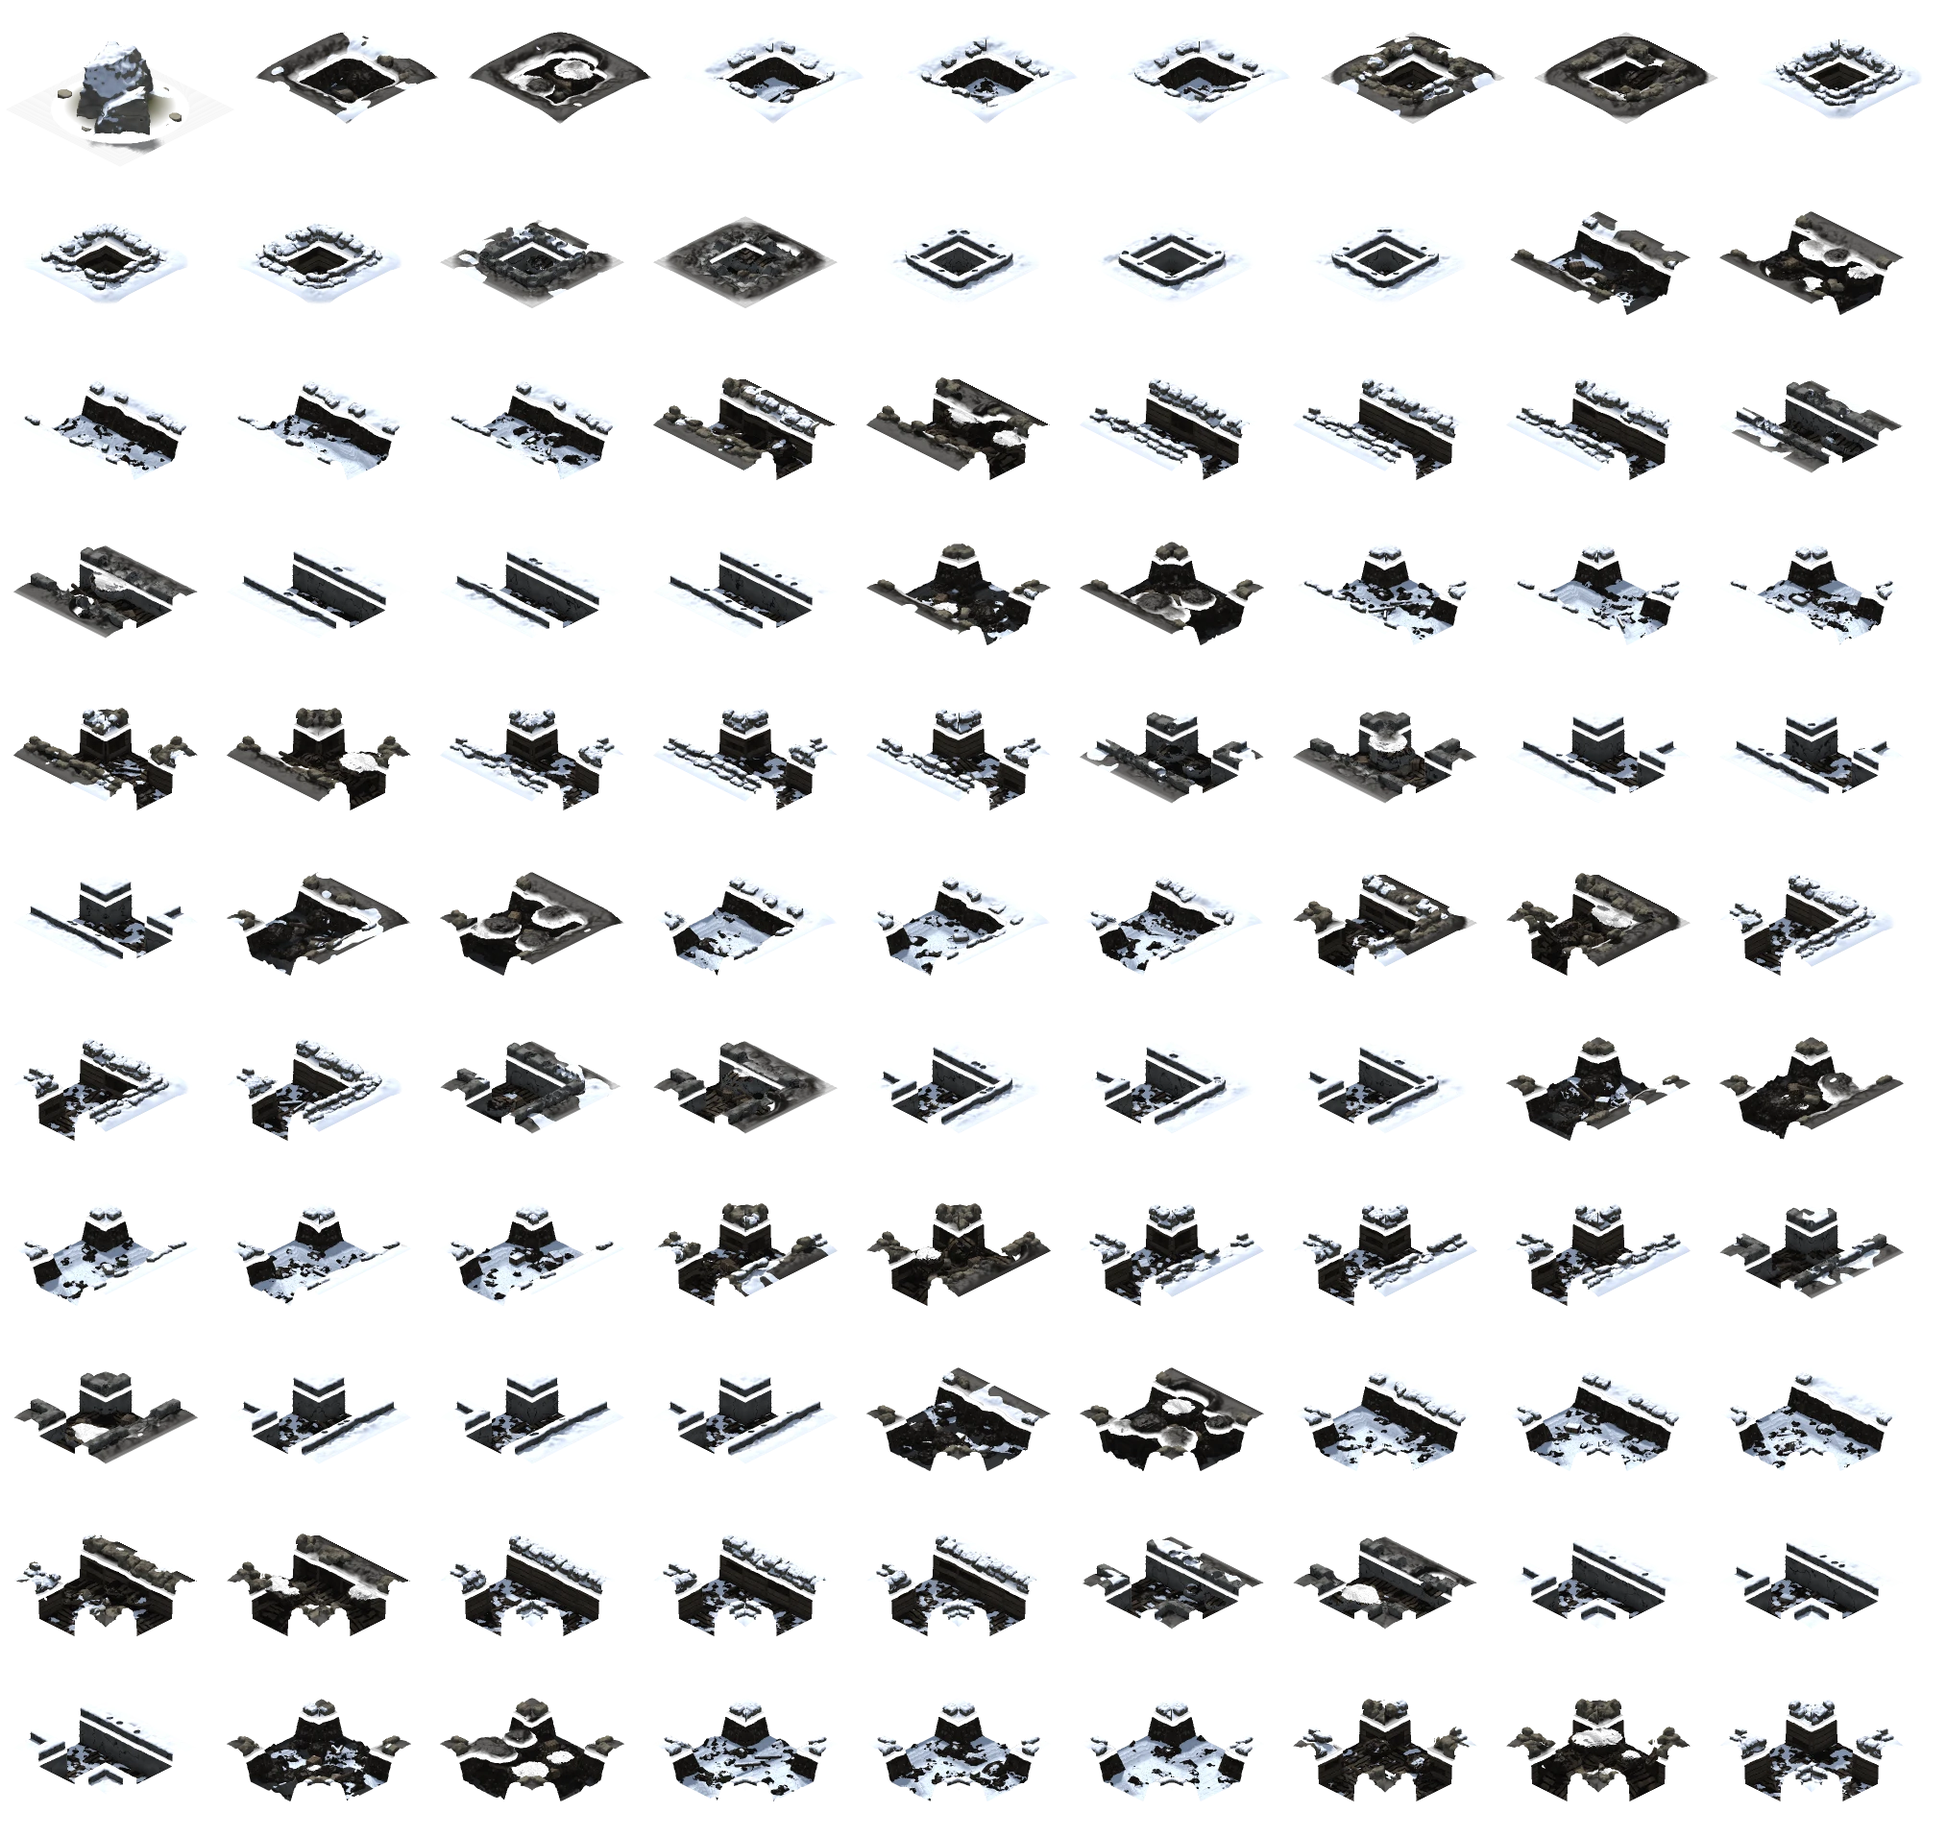
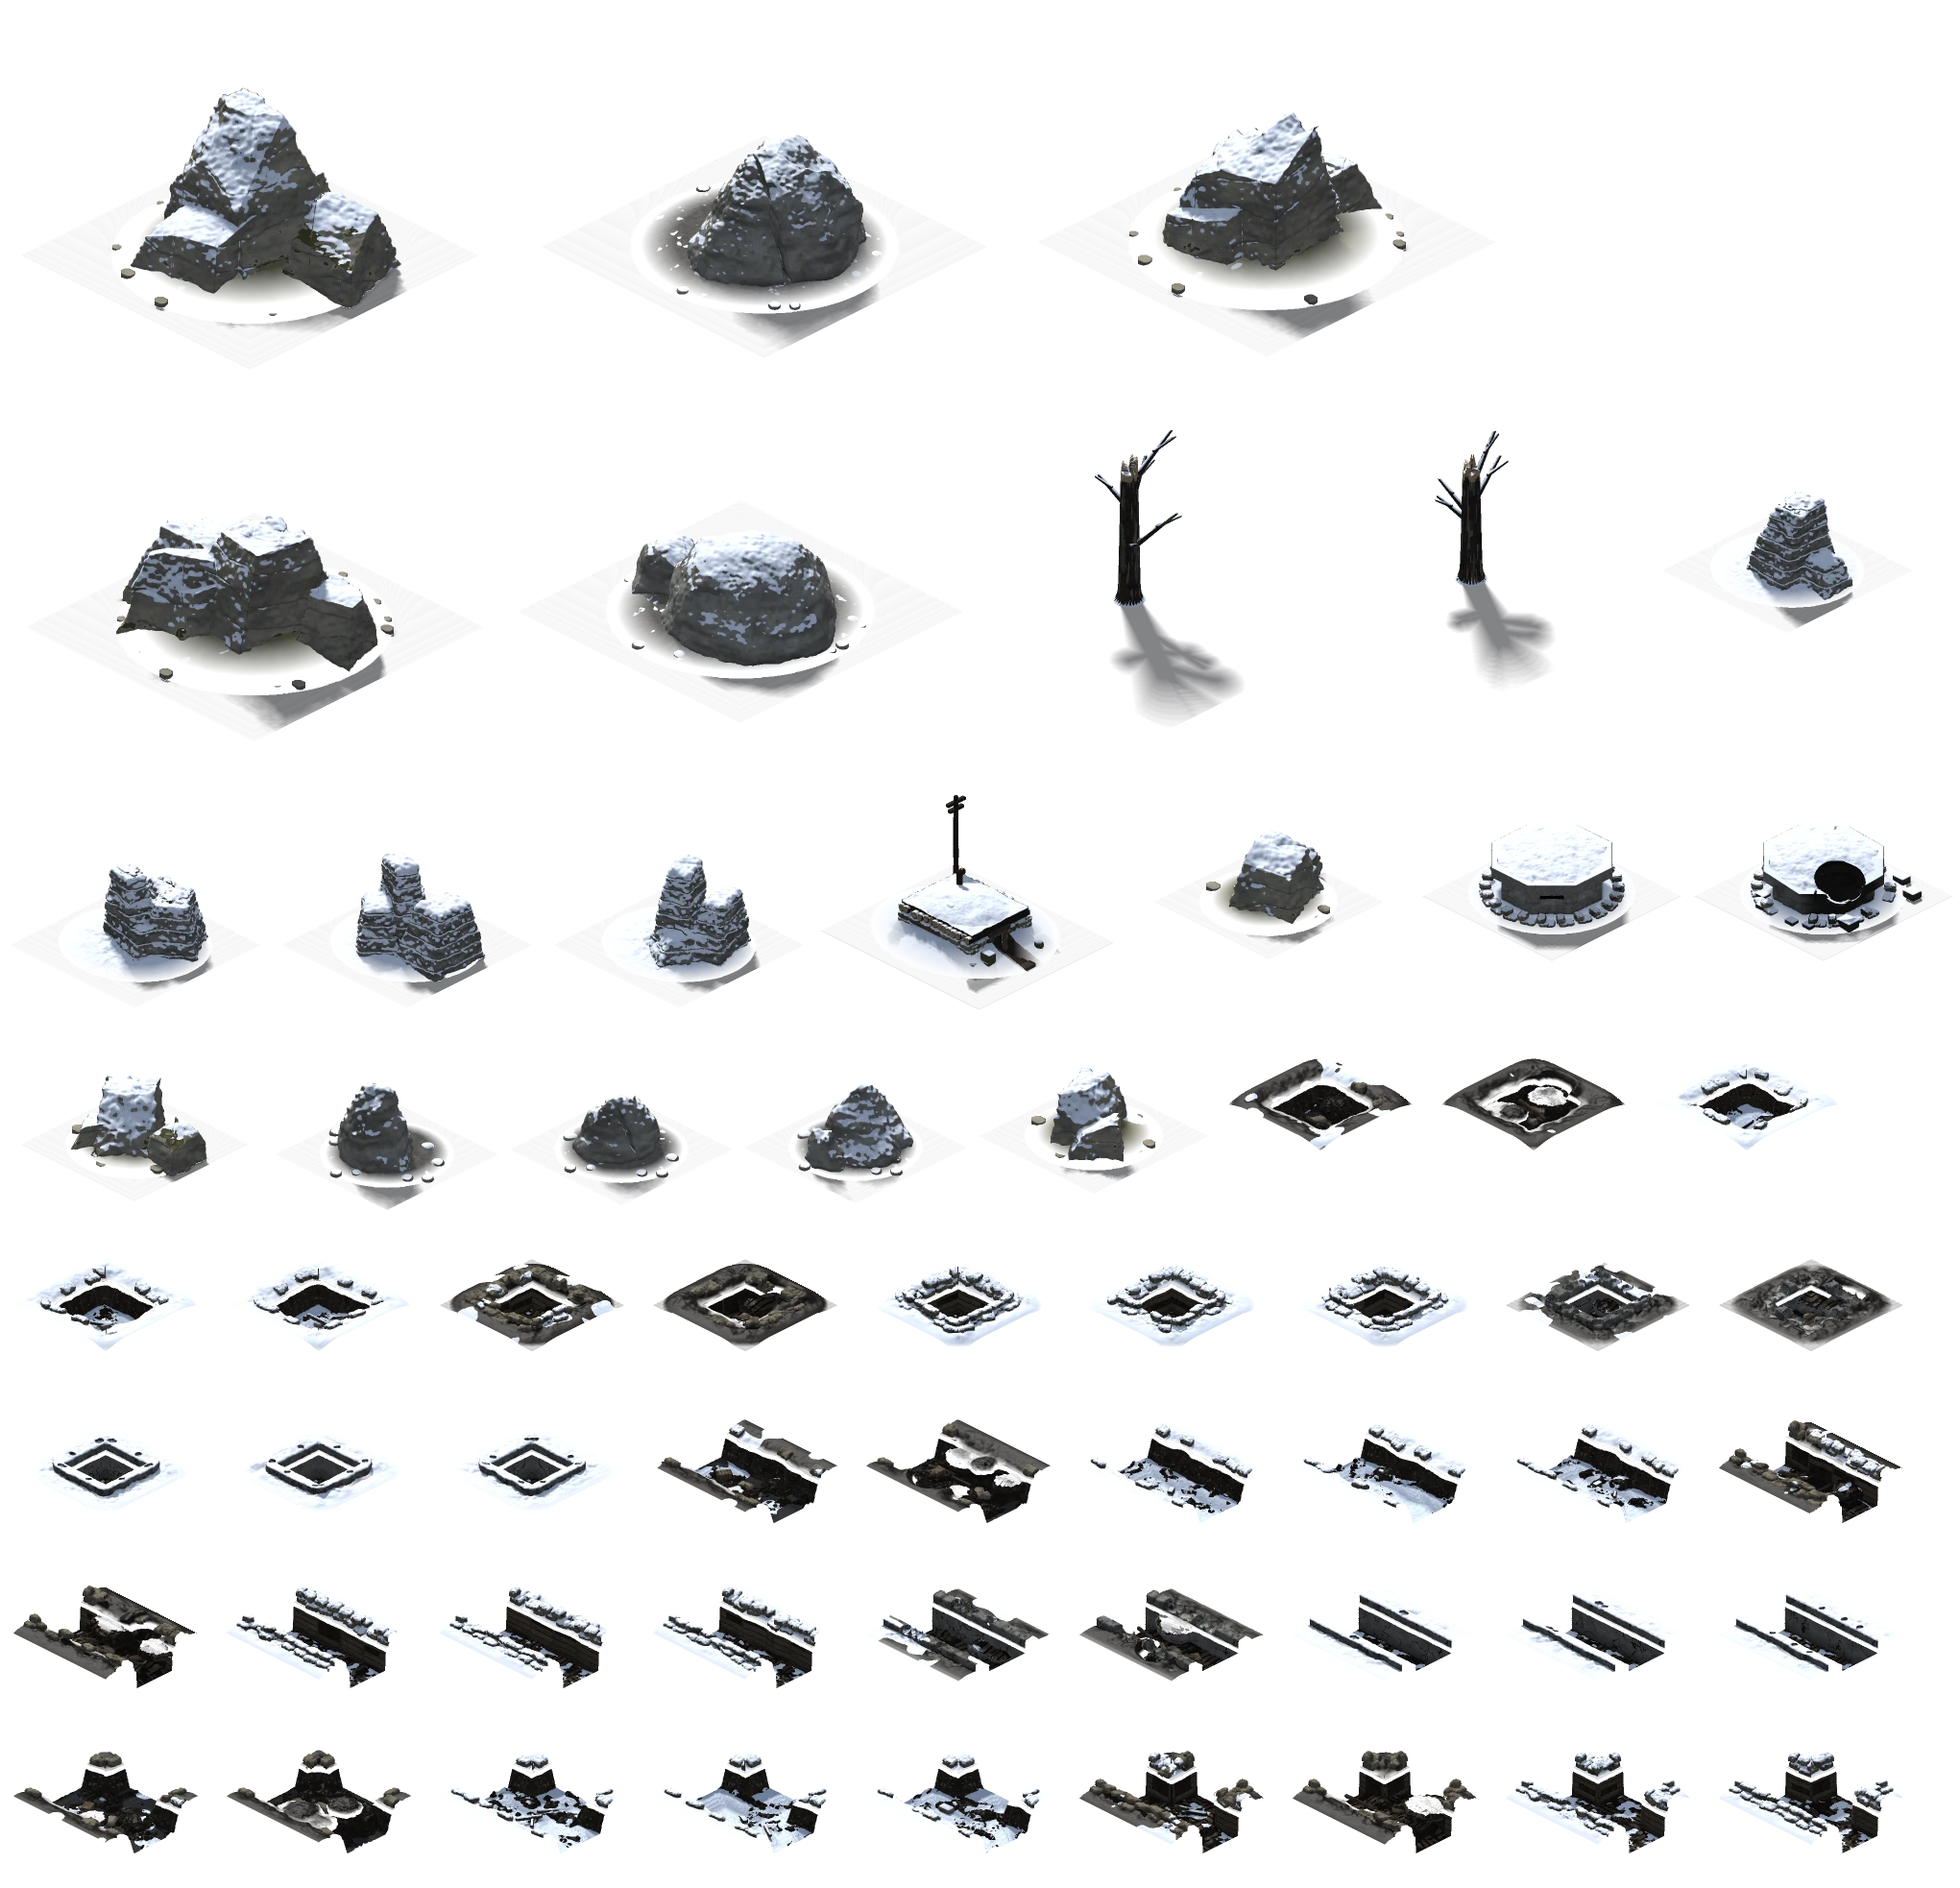
Rounded boulders mixed in among the jagged crags
The rounded boulders come back as their own sprites (1, 2 and 3 tiles, three variants each, bare and
snowy); about two rocks in five are drawn as one, the rest as crags.

Claude-Session: https://claude.ai/code/session_01QRLYjet5i3xPK5hPmw42NL

diff --git a/src/render.js b/src/render.js
@@ -1343,6 +1343,9 @@ export class Renderer {
   drawRock(ctx, r) {
     const h = hash(r.x * 3.7, r.y * 1.9), c = iso(r.x + r.size / 2 + (h - 0.5) * 0.15, r.y + r.size / 2 + (hash(r.y, r.x) - 0.5) * 0.15);
     const snow = (this.S ?? 1) > 0.7 ? '_s' : '';
+    // jagged crags and rounded boulders mixed, as they fall in the mountains
+    const kind = hash(r.x * 2.9 + 1.7, r.y * 5.3) < 0.42 ? 'round' : 'boulder';
+    if (this.drawFrame(ctx, this.propGroup(), `${kind}${r.size}_${r.v}${snow}`, c.x, c.y, 1.22 + h * 0.2, h > 0.5)) return;
     if (this.drawFrame(ctx, this.propGroup(), `boulder${r.size}_${r.v}${snow}`, c.x, c.y, 1.22 + h * 0.2, h > 0.5)) return;
     if (this.drawFrame(ctx, this.propGroup(), `rock${r.v}${snow}`, c.x, c.y, (1.4 + h * 0.35) * r.size, h > 0.5)) return;
     ctx.fillStyle = '#77736b'; // fallback: a plain grey boulder

diff --git a/index.html b/index.html
@@ -20,7 +20,7 @@
       "./src/model-view.js": "./src/model-view.js?v=214a5b12",
       "./src/path.js": "./src/path.js?v=23c490f7",
       "./src/relief.js": "./src/relief.js?v=2441f819",
-      "./src/render.js": "./src/render.js?v=d3a1fe99",
+      "./src/render.js": "./src/render.js?v=f07e0f17",
       "./src/save.js": "./src/save.js?v=5ef6eb42",
       "./src/tutorial.js": "./src/tutorial.js?v=134dce8b",
       "./src/ui.js": "./src/ui.js?v=268f3660",
